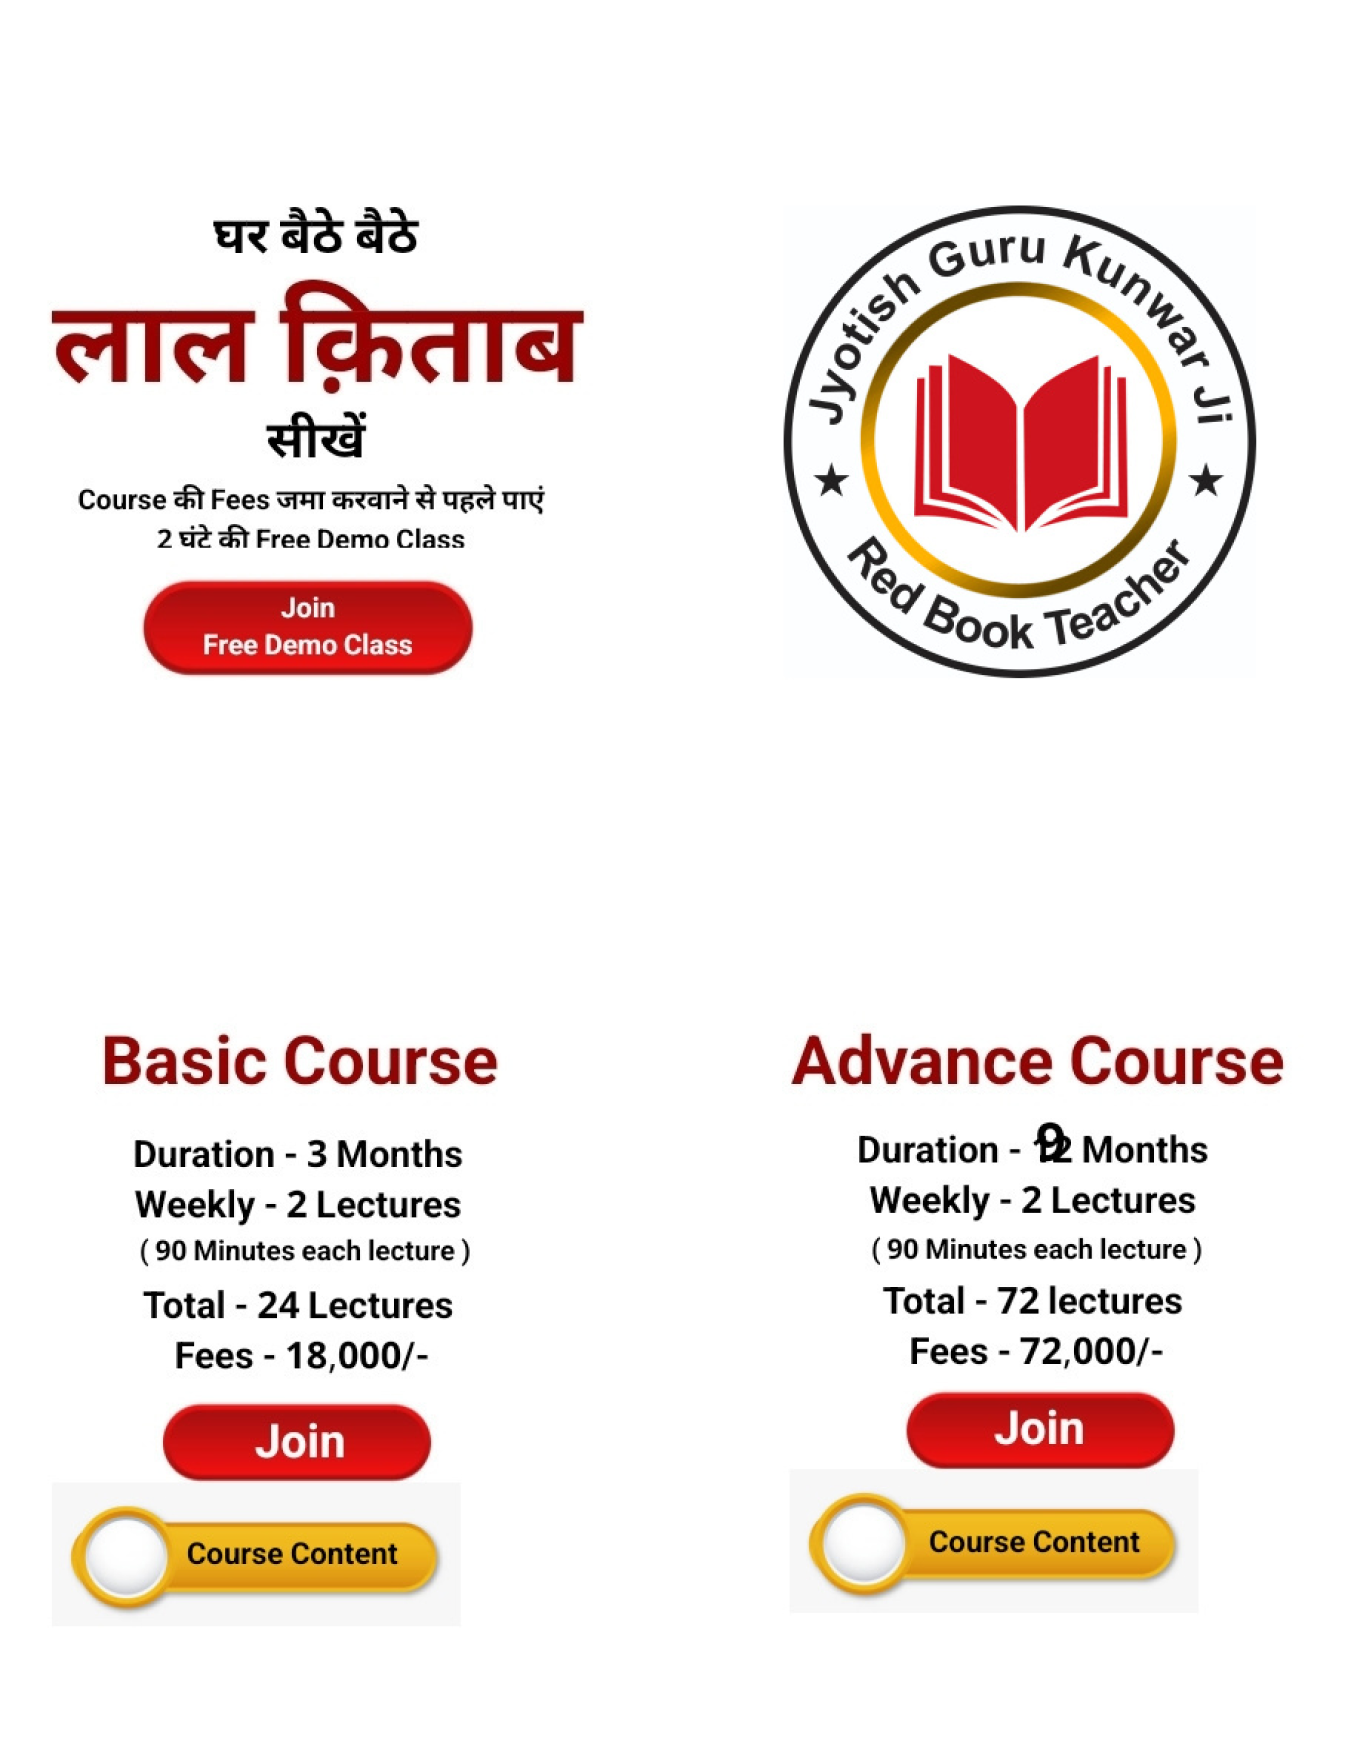
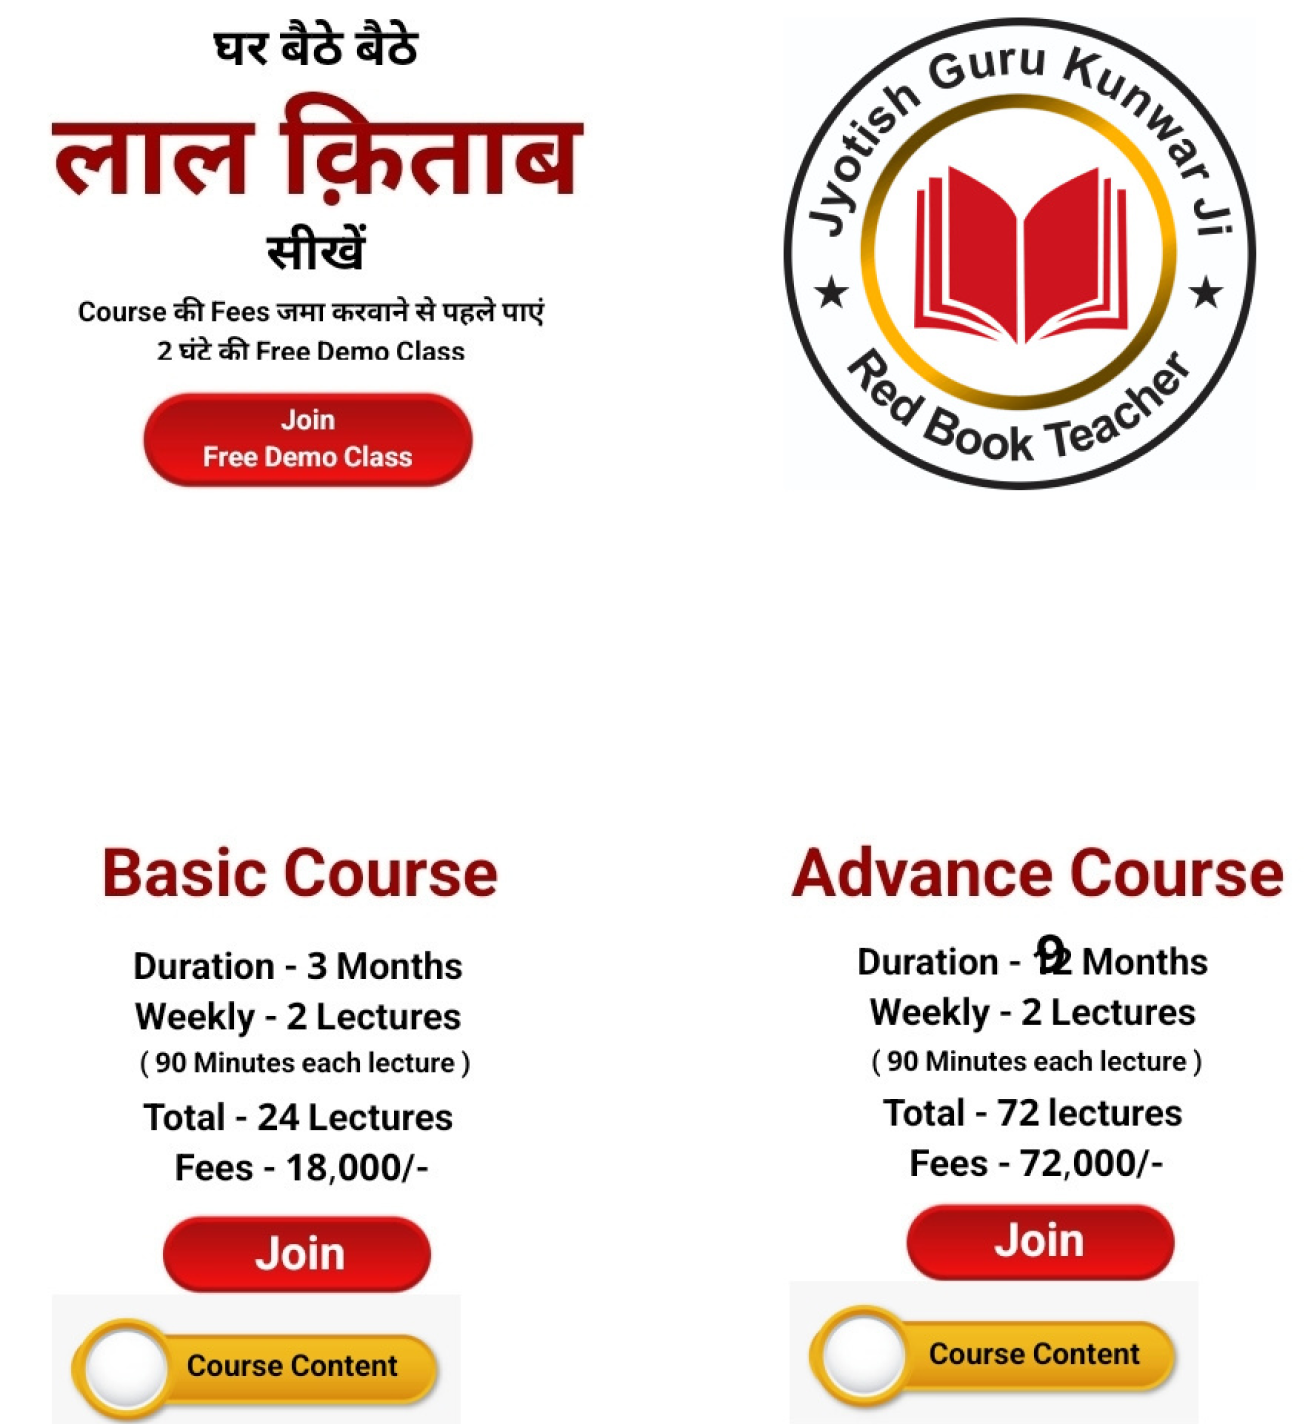
course

diff --git a/src/components/LinkList.tsx b/src/components/LinkList.tsx
@@ -23,13 +23,13 @@ const LinkList: FunctionComponent<LinkListType> = ({ className = "" }) => {
         {/* Images Section */}
         <div className="flex flex-row items-start justify-between w-full  flex-wrap">
           <img
-            className="w-1/2 object-cover "
+            className="w-2/5 object-cover "
             loading="lazy"
             alt="Course Image 1"
             src="/photo20240818163614-2@2x.png"
           />
           <img
-            className="w-1/2 object-cover "
+            className="w-2/5 object-cover "
             loading="lazy"
             alt="Course Image 2"
             src="/photo20240818163614-2@2x.png"
